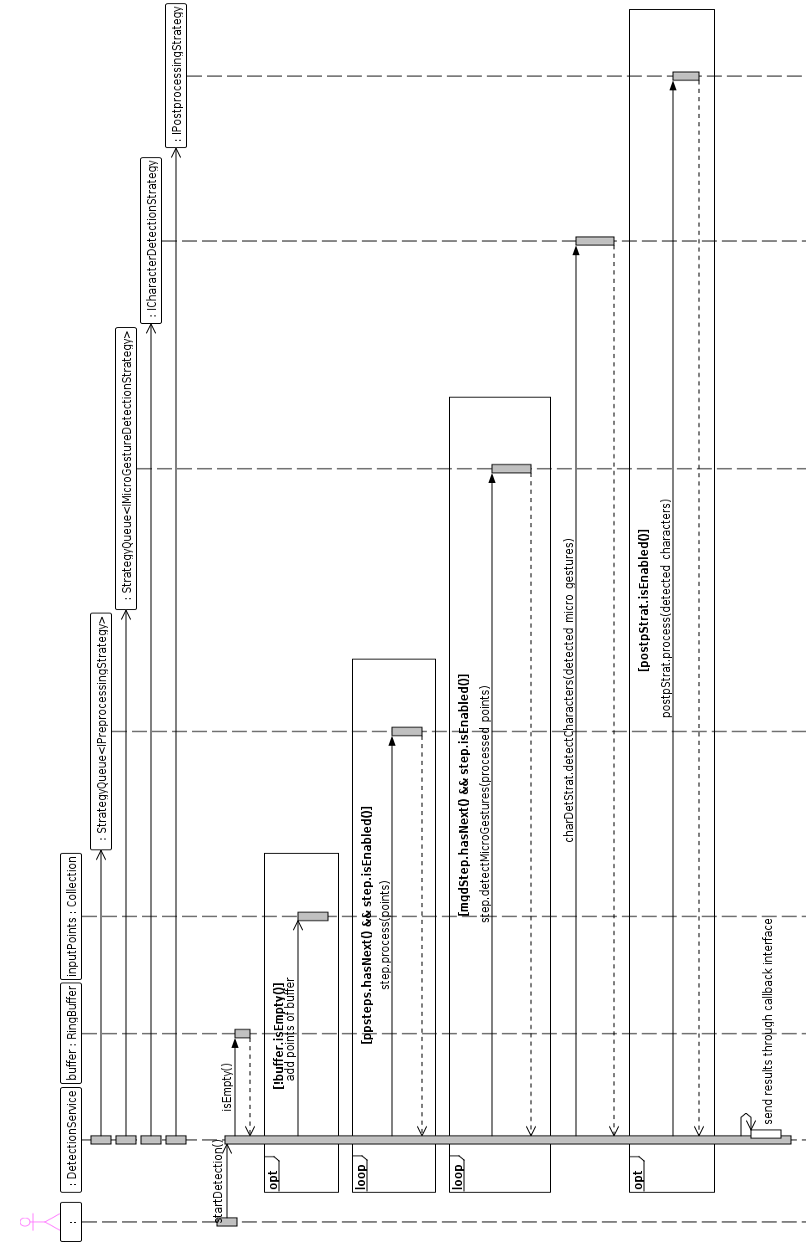
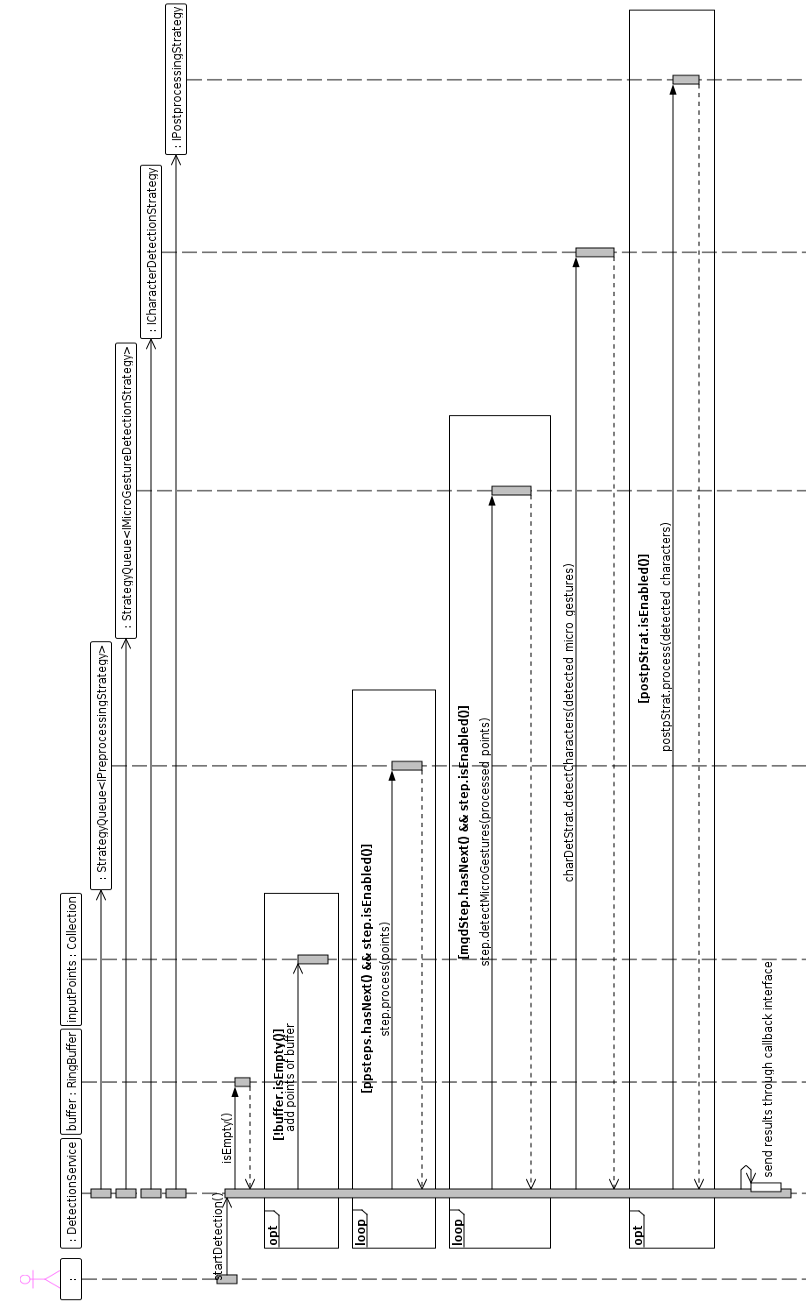
Fix: size and placement of some diagrams corrected

diff --git a/doc/content/content/backend.tex b/doc/content/content/backend.tex
@@ -139,7 +139,7 @@ Die Klasse \emph{TouchPoint} repräsentiert einen Punkt mit dessen Position, dem
 
 \begin{figure}[h!]
    \centering
-   \includegraphics[width=\textwidth]{img/uml_cd_tp} 
+   \includegraphics[scale=0.5]{img/uml_cd_tp} 
    \caption{Klassen-Diagramm \emph{TouchPoint}}
    \label{fig:cd_touchpoint}
 \end{figure}
@@ -157,7 +157,7 @@ Die Klasse \emph{Character} umfasst neben dem erkannten Zeichen und desen Erkenn
 
 \begin{figure}[h!]
    \centering
-   \includegraphics[width=\textwidth]{img/uml_cd_char} 
+   \includegraphics[scale=0.5]{img/uml_cd_char} 
    \caption{Klassen-Diagramm \emph{Character}}
    \label{fig:cd_character}
 \end{figure}
@@ -201,9 +201,9 @@ Während der Erkennung muss der \emph{DetectionService} nun für jede Phase durc
 
 Nachdem alle Erkennungs-Phasen durchlaufen wurden werden die Resultate dann über das Rückruf-Interface an alle angebunden Clients versendet (siehe Abbildung \ref{fig:sd_detection}).
 
-\begin{figure}[h!]
+\begin{figure}[bh!]
    \centering
-   \includegraphics[height=\textheight]{img/uml_sd_detection} 
+   \includegraphics[scale=0.45]{img/uml_sd_detection} 
    \caption{Sequenz-Diagramm des groben Erkennungs-Ablaufs}
    \label{fig:sd_detection}
 \end{figure}
@@ -243,7 +243,7 @@ Durch dieses Vorgehen muss der Graph nur beim ersten Aufstarten des Service gepa
 
 \begin{figure}[h!]
    \centering
-   \includegraphics[scale=0.375]{img/uml_sd_consume} 
+   \includegraphics[width=\textwidth]{img/uml_sd_consume} 
    \caption{Sequenz-Diagramm des groben Erkennungs-Ablaufs in \emph{Node}}
    \label{fig:sd_consume}
 \end{figure}
